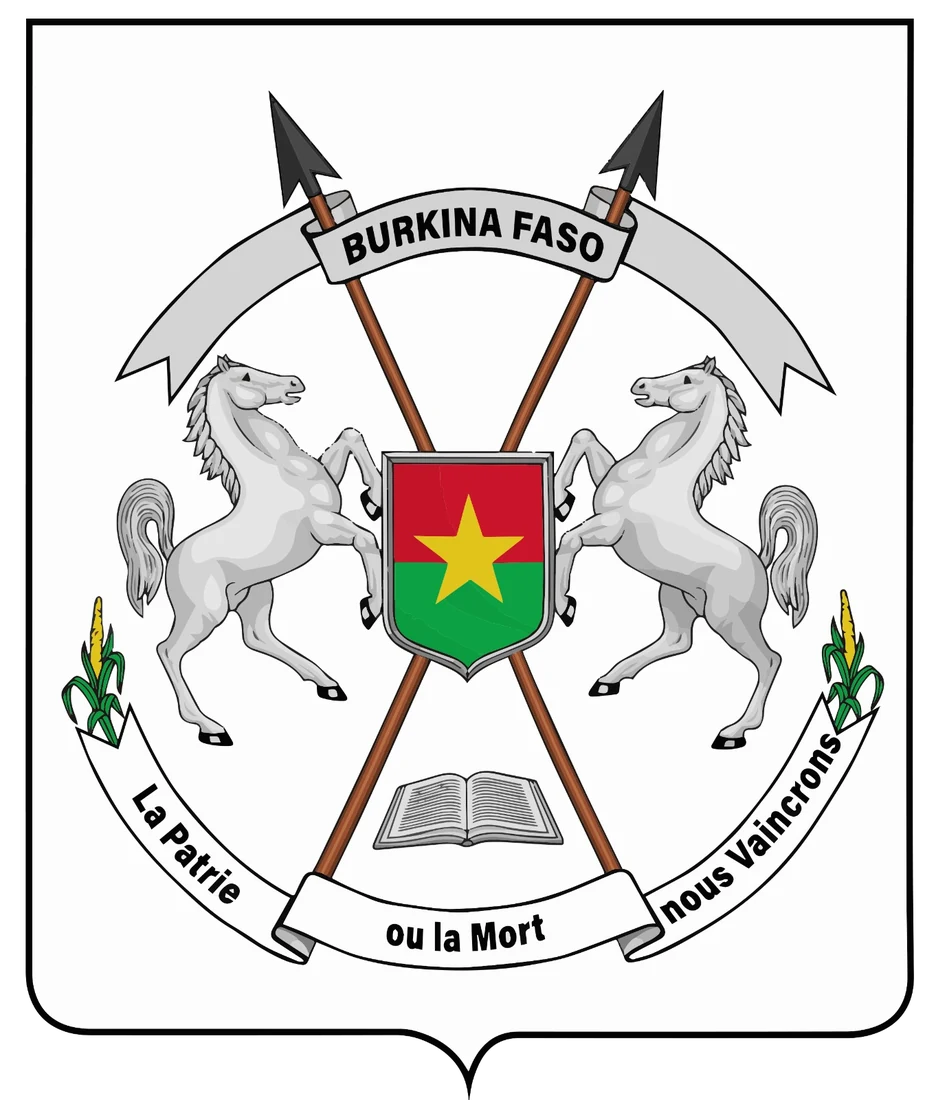
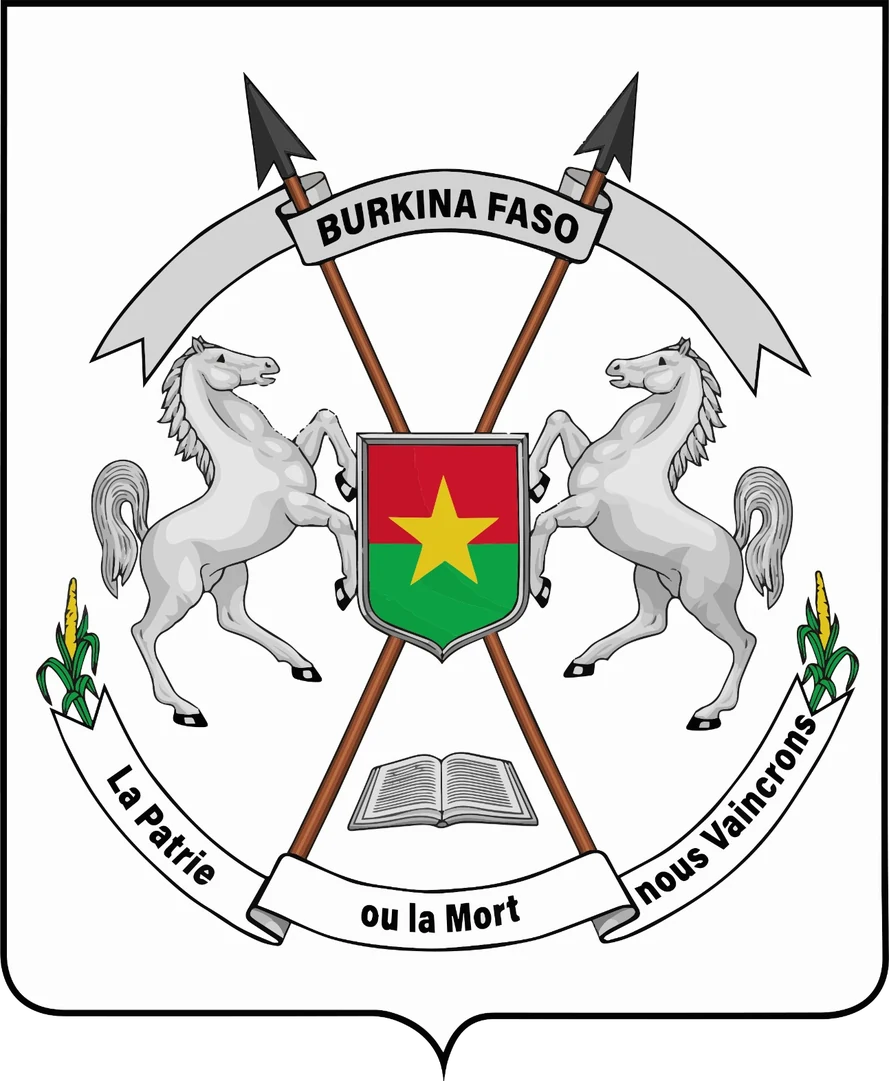
Interfaces (miroir) : les armoiries prennent la hauteur de la carte de connexion
- Le cadre du cartouche s'aligne sur les bords haut et bas du formulaire
  (même rangée de grille, image hors du flux) ; la pointe dépasse dessous.
  Il suit la carte quand un message d'erreur l'allonge ; dans une colonne
  trop étroite (vers 960 px), l'image rétrécit et reste alignée en haut.
- Image recadrée au ras du cartouche, sans marge transparente :
  889 × 1 081 px, 82 Ko.
- Téléphone inchangé : armoiries masquées, carte sous le logo.

Vérifié sur les images Docker : cadre de 541 px pour une carte de 541 px
(espace usager), 564 pour 564 (guichet), à 1 366 et 1 920 px ; aucun
débordement ; tests de bout en bout 7 et 4.

Changed region(s): [[0.0, 0.0, 1.0, 0.9463], [0.4556, 0.9463, 0.5163, 1.0], [0.3948, 0.3053, 0.4252, 0.3358]]

diff --git a/mirror-project/espace-usager/src/features/auth/styles/auth.css b/mirror-project/espace-usager/src/features/auth/styles/auth.css
@@ -1,5 +1,5 @@
 /* Écran de connexion : charte de docs/charte-graphique.md (variables dans src/app/globals.css).
-   Formulaire dans une carte givrée, champs et bouton en pilules, armoiries à droite. */
+   Formulaire dans une carte givrée, champs et bouton en pilules, armoiries à droite à la hauteur de la carte. */
 
 .auth-space {
   display: flex;
@@ -11,7 +11,9 @@
   display: grid;
   flex: 1;
   grid-template-columns: minmax(0, 1fr) minmax(0, 1fr);
-  grid-template-rows: auto 1fr;
+  /* Logo, espace, carte et armoiries, espace : la troisième rangée prend la hauteur de la carte,
+     les deux espaces égaux la centrent dans la page. */
+  grid-template-rows: auto 1fr auto 1fr;
   gap: 24px clamp(24px, 4vw, 56px);
   width: 100%;
   max-width: var(--largeur);
@@ -68,6 +70,7 @@
 /* ---------- Formulaire : carte givrée ---------- */
 
 .auth-space .login-panel {
+  grid-row: 3;
   display: flex;
   align-items: center;
   justify-content: center;
@@ -266,21 +269,27 @@
   white-space: nowrap;
 }
 
-/* ---------- Armoiries à droite du formulaire ---------- */
+/* ---------- Armoiries à droite du formulaire, à la hauteur de la carte ---------- */
 
+/* Le panneau occupe la rangée de la carte ; l'image, hors du flux, ne compte pas dans sa hauteur. */
 .auth-space .visual-panel {
-  display: flex;
-  align-items: center;
-  justify-content: center;
+  grid-row: 3;
+  position: relative;
   min-width: 0;
 }
 
-/* Le cartouche des armoiries tient lieu de carte : même ombre que les cartes givrées. */
+/* Le cartouche tient lieu de carte, avec la même ombre que les cartes givrées. Son cadre
+   (1 019 px sur les 1 081 de l'image) s'aligne sur les bords haut et bas de la carte ; la pointe
+   dépasse dessous. Il suit la carte quand elle s'allonge (message d'erreur) ; dans une colonne
+   trop étroite, l'image rétrécit et reste alignée en haut. */
 .auth-space .login-arms {
-  width: auto;
-  height: auto;
-  max-width: 100%;
-  max-height: min(640px, calc(100svh - 200px));
+  position: absolute;
+  top: 0;
+  left: 0;
+  width: 100%;
+  height: calc(100% * 1081 / 1019);
+  object-fit: contain;
+  object-position: top;
   filter: drop-shadow(0 8px 24px rgb(20 22 26 / 0.1));
   animation: auth-rise 520ms var(--courbe) both;
 }
@@ -298,12 +307,15 @@
 }
 
 @media (max-width: 640px) {
+  /* Carte en haut, juste sous le logo. */
   .auth-space .login-page {
+    grid-template-rows: auto 1fr;
     padding-top: 16px;
     padding-bottom: 28px;
   }
 
   .auth-space .login-panel {
+    grid-row: auto;
     align-items: flex-start;
   }
 

diff --git a/mirror-project/guichet-agent/src/features/auth/styles/auth.css b/mirror-project/guichet-agent/src/features/auth/styles/auth.css
@@ -1,5 +1,5 @@
 /* Écran de connexion : charte de docs/charte-graphique.md (variables dans src/app/globals.css).
-   Formulaire dans une carte givrée, champs et bouton en pilules, armoiries à droite. */
+   Formulaire dans une carte givrée, champs et bouton en pilules, armoiries à droite à la hauteur de la carte. */
 
 .auth-space {
   display: flex;
@@ -11,7 +11,9 @@
   display: grid;
   flex: 1;
   grid-template-columns: minmax(0, 1fr) minmax(0, 1fr);
-  grid-template-rows: auto 1fr;
+  /* Logo, espace, carte et armoiries, espace : la troisième rangée prend la hauteur de la carte,
+     les deux espaces égaux la centrent dans la page. */
+  grid-template-rows: auto 1fr auto 1fr;
   gap: 24px clamp(24px, 4vw, 56px);
   width: 100%;
   max-width: var(--largeur);
@@ -68,6 +70,7 @@
 /* ---------- Formulaire : carte givrée ---------- */
 
 .auth-space .login-panel {
+  grid-row: 3;
   display: flex;
   align-items: center;
   justify-content: center;
@@ -266,21 +269,27 @@
   white-space: nowrap;
 }
 
-/* ---------- Armoiries à droite du formulaire ---------- */
+/* ---------- Armoiries à droite du formulaire, à la hauteur de la carte ---------- */
 
+/* Le panneau occupe la rangée de la carte ; l'image, hors du flux, ne compte pas dans sa hauteur. */
 .auth-space .visual-panel {
-  display: flex;
-  align-items: center;
-  justify-content: center;
+  grid-row: 3;
+  position: relative;
   min-width: 0;
 }
 
-/* Le cartouche des armoiries tient lieu de carte : même ombre que les cartes givrées. */
+/* Le cartouche tient lieu de carte, avec la même ombre que les cartes givrées. Son cadre
+   (1 019 px sur les 1 081 de l'image) s'aligne sur les bords haut et bas de la carte ; la pointe
+   dépasse dessous. Il suit la carte quand elle s'allonge (message d'erreur) ; dans une colonne
+   trop étroite, l'image rétrécit et reste alignée en haut. */
 .auth-space .login-arms {
-  width: auto;
-  height: auto;
-  max-width: 100%;
-  max-height: min(640px, calc(100svh - 200px));
+  position: absolute;
+  top: 0;
+  left: 0;
+  width: 100%;
+  height: calc(100% * 1081 / 1019);
+  object-fit: contain;
+  object-position: top;
   filter: drop-shadow(0 8px 24px rgb(20 22 26 / 0.1));
   animation: auth-rise 520ms var(--courbe) both;
 }
@@ -298,12 +307,15 @@
 }
 
 @media (max-width: 640px) {
+  /* Carte en haut, juste sous le logo. */
   .auth-space .login-page {
+    grid-template-rows: auto 1fr;
     padding-top: 16px;
     padding-bottom: 28px;
   }
 
   .auth-space .login-panel {
+    grid-row: auto;
     align-items: flex-start;
   }
 

diff --git a/mirror-project/espace-usager/src/features/auth/components/auth-shell.tsx b/mirror-project/espace-usager/src/features/auth/components/auth-shell.tsx
@@ -24,10 +24,11 @@ export function AuthShell({ children }: { children: ReactNode }) {
       <section className="login-panel" aria-labelledby="login-title">
         <div className="login-block">{children}</div>
       </section>
-      {/* Armoiries tirées de docs/armoiries-1.png (fond rendu transparent, 83 Ko) ; décoratives :
-          la pilule du logo les annonce déjà aux lecteurs d'écran. Masquées sur téléphone. */}
+      {/* Armoiries tirées de docs/armoiries-1.png (fond rendu transparent, recadrées au ras du
+          cartouche, 82 Ko), à la hauteur de la carte (auth.css) ; décoratives : la pilule du logo
+          les annonce déjà aux lecteurs d'écran. Masquées sur téléphone. */}
       <div className="visual-panel">
-        <Image className="login-arms" src="/armoiries.webp" alt="" width={936} height={1100} unoptimized />
+        <Image className="login-arms" src="/armoiries.webp" alt="" width={889} height={1081} unoptimized />
       </div>
     </main>
   );

diff --git a/mirror-project/guichet-agent/src/features/auth/components/auth-shell.tsx b/mirror-project/guichet-agent/src/features/auth/components/auth-shell.tsx
@@ -24,10 +24,11 @@ export function AuthShell({ children }: { children: ReactNode }) {
       <section className="login-panel" aria-labelledby="login-title">
         <div className="login-block">{children}</div>
       </section>
-      {/* Armoiries tirées de docs/armoiries-1.png (fond rendu transparent, 83 Ko) ; décoratives :
-          la pilule du logo les annonce déjà aux lecteurs d'écran. Masquées sur téléphone. */}
+      {/* Armoiries tirées de docs/armoiries-1.png (fond rendu transparent, recadrées au ras du
+          cartouche, 82 Ko), à la hauteur de la carte (auth.css) ; décoratives : la pilule du logo
+          les annonce déjà aux lecteurs d'écran. Masquées sur téléphone. */}
       <div className="visual-panel">
-        <Image className="login-arms" src="/armoiries.webp" alt="" width={936} height={1100} unoptimized />
+        <Image className="login-arms" src="/armoiries.webp" alt="" width={889} height={1081} unoptimized />
       </div>
     </main>
   );

diff --git a/mirror-project/docs/charte-graphique.md b/mirror-project/docs/charte-graphique.md
@@ -103,7 +103,7 @@ box-shadow: 0 1px 2px rgb(20 22 26 / 0.04), 0 8px 24px -12px rgb(20 22 26 / 0.08
 
 **Bloc vert plein** pour le contenu mis en avant : le dossier suivi au guichet.
 
-**Écran de connexion :** à droite du formulaire, les armoiries (`public/armoiries.webp`), tirées de l'image `armoiries-1.png` fournie : fond gris extérieur rendu transparent, contour noir adouci, 936 × 1 100 px, 83 Ko au lieu de 937 Ko. Le cartouche tient lieu de carte, avec la même ombre. L'image est décorative (texte de remplacement vide) : la pilule du logo annonce déjà les armoiries. Elle est masquée sur téléphone.
+**Écran de connexion :** à droite du formulaire, les armoiries (`public/armoiries.webp`), tirées de l'image `armoiries-1.png` fournie : fond gris extérieur rendu transparent, contour noir adouci, image recadrée au ras du cartouche, 889 × 1 081 px, 82 Ko au lieu de 937 Ko. Le cartouche tient lieu de carte, avec la même ombre, et en prend la hauteur : son cadre s'aligne sur les bords haut et bas du formulaire, la pointe dépasse dessous, et il suit la carte quand un message d'erreur l'allonge. L'image est décorative (texte de remplacement vide) : la pilule du logo annonce déjà les armoiries. Elle est masquée sur téléphone.
 
 ## Composants
 
